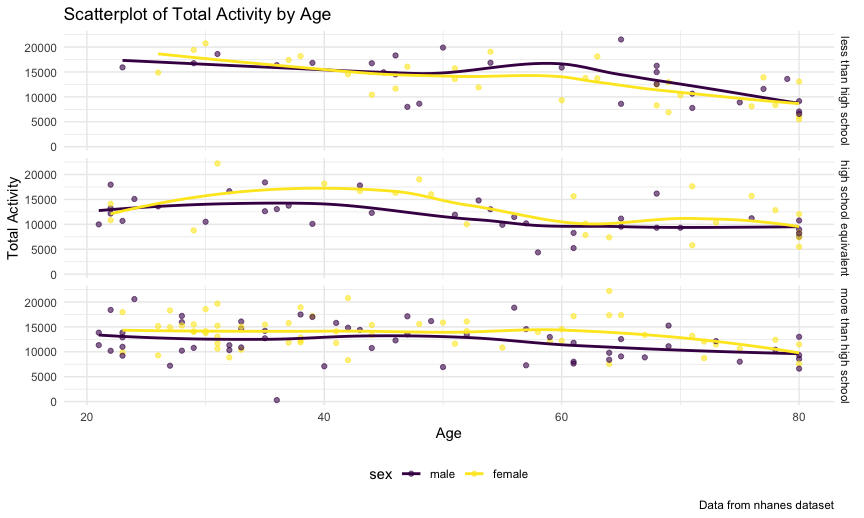
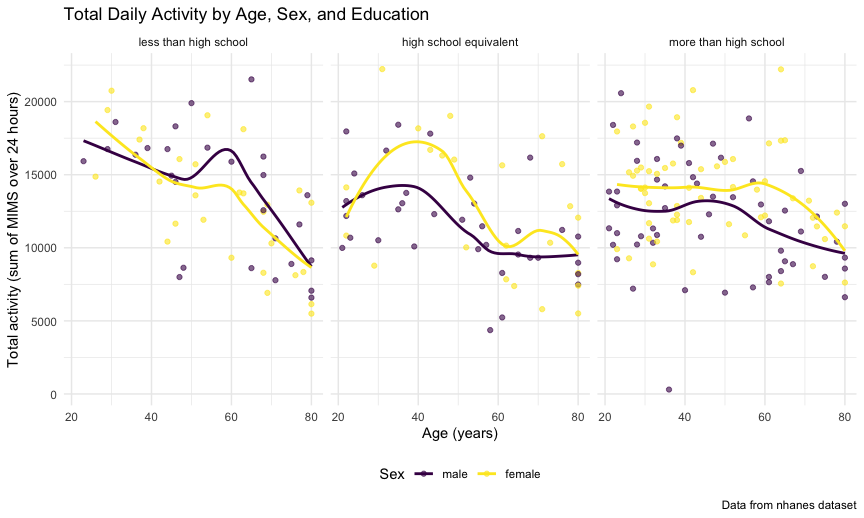
revised total activity by age plot and comments

diff --git a/p8105_hw3_stt2133.md b/p8105_hw3_stt2133.md
@@ -265,30 +265,27 @@ mims |>
   ggplot(aes(x = age, y = total_mims, color = sex)) +
   geom_point(alpha = .6) +
   geom_smooth(se = FALSE) +
-  facet_grid(education ~ .) +
+  facet_grid(. ~ education) +
   labs(
-    title = "Scatterplot of Total Activity by Age",
-    x = "Age",
-    y = "Total Activity",
+    title = "Total Daily Activity by Age, Sex, and Education",
+    x = "Age (years)",
+    y = "Total activity (sum of MIMS over 24 hours)",
+    color = "Sex",
     caption = "Data from nhanes dataset")
 ```
 
 <img src="p8105_hw3_stt2133_files/figure-gfm/mims-total-scatt-1.png" alt="" width="90%" />
 
-Based on the **Scatterplot of Total Activity by Age**, we can appreciate
-potential differencea in total activity (`total_mims`) across the `age`
-range of participants, according to `sex` and `education`. It would
-appear that total activity generally decreases as `age` of participants
-increase. This trend is indicated in each of the three `education`
-categories. This association seems to be most noticeable within the
-`less than high school` stratum. In only the `less than high school`
-stratum of `education`, `male` participants seem to have recorded higher
-total activity. Conversely, in the other two strata of `education`,
-namely `high school equivalent` and `more than high school`, `female`
-participants generally recorded higher total activity. Across all
-`education` strata, it would appear that participants with
-`less than high school` recorded amongst the highest total activity,
-especially those that were younger in `age`.
+In all three `education` groups, total activity tends to decline with
+`age`, especially after about 60 years. This decline is steepest among
+participants with less than high school `education.` In that group
+females are slightly more active than males at younger ages, while males
+are more active between about ages older than 50. In the high school
+equivalent and more than high school `education` groups, females tend to
+have higher total activity than males across most of the `age` range,
+and the difference is largest between about ages 30 and 50 in the high
+school equivalent group. One man in the more than high school group has
+a total activity close to zero.
 
 ## 2.4. 24-hour Activity Time Courses
 
